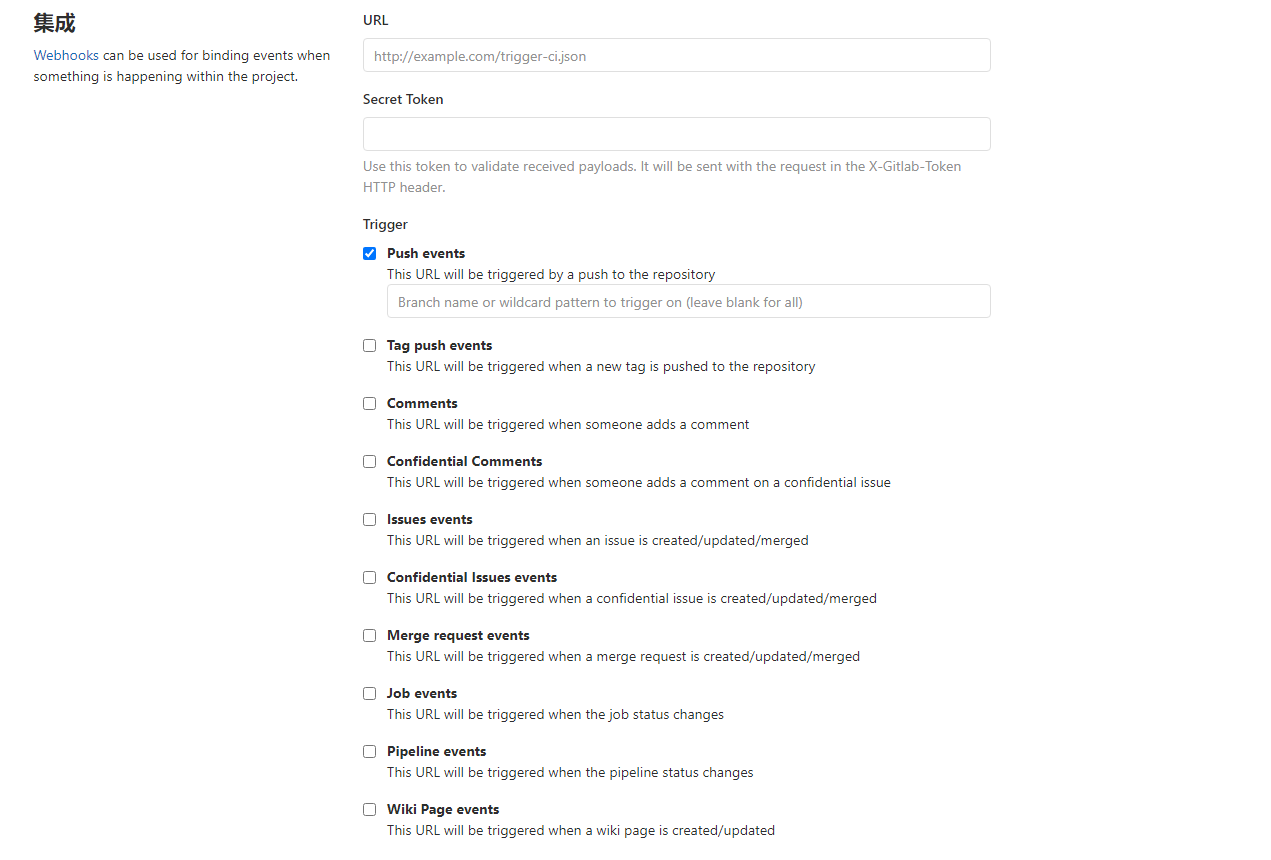
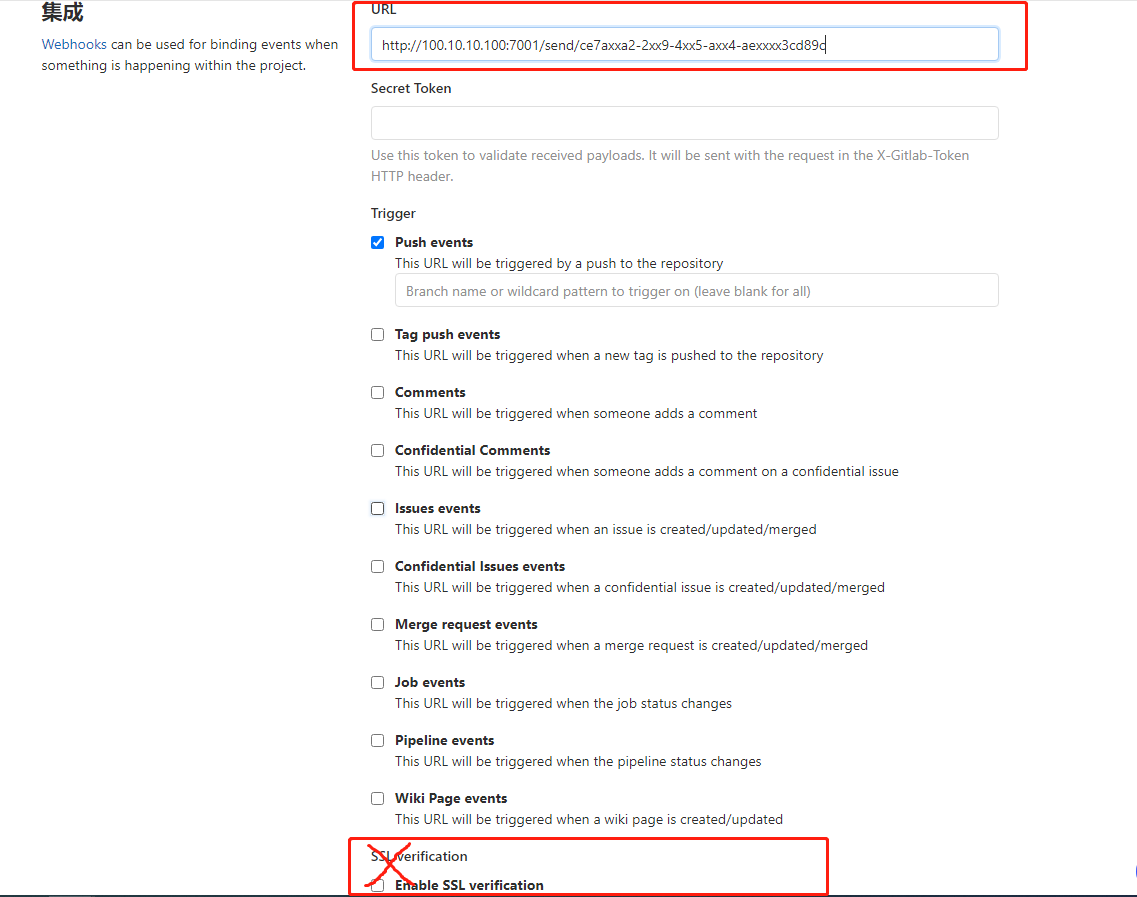
feat: 添加jira webhook推送

Changed region(s): [[0.0, 0.1512, 1.0, 1.0], [0.0308, 0.0, 0.9235, 0.1209]]

diff --git a/app/service/jiraSend.js b/app/service/jiraSend.js
@@ -1,0 +1,212 @@
+'use strict';
+
+const Service = require('egg').Service;
+const _ = require('lodash');
+
+class JiraSendService extends Service {
+  // jira不同操作的调用不同的信息处理方法
+  async translateMsg(data) {
+    const { webhookEvent, issue_event_type_name } = data || {};
+    if (webhookEvent) {
+      let res = '';
+      if (webhookEvent.startsWith('jira:issue')) {
+        if (issue_event_type_name === 'issue_commented') {
+          // issue添加评论事件
+          res = await this.issueComment(data);
+        } else if (issue_event_type_name === 'issue_comment_edited') {
+          // issue编辑评论事件
+          res = await this.issueEditComment(data);
+        } else if (issue_event_type_name === 'issue_comment_deleted') {
+          // issue删除评论事件
+          res = await this.issueDeleteComment(data);
+        } else {
+          // issue相关事件且不是评论事件
+          res = await this.issue(data);
+        }
+      } else if (webhookEvent.startsWith('jira:worklog')) {
+        // 工作日志更改和issue更新使用相同通知
+        data.webhookEvent = 'jira:issue_updated';
+        res = await this.issue(data);
+      } else if (webhookEvent.startsWith('jira:version')) {
+        // version相关事件
+        res = await this.version(data);
+      } else if (webhookEvent.startsWith('project')) {
+        // project相关事件
+        res = await this.project(data);
+      } else if (webhookEvent.startsWith('user')) {
+        // user相关事件
+        res = await this.user(data);
+      } else if (webhookEvent.startsWith('sprint')) {
+        // sprint相关事件
+        res = await this.sprint(data);
+      } else if (webhookEvent.startsWith('board')) {
+        // board相关事件
+        res = await this.board(data);
+      }
+      if (!res) return false;
+      return {
+        msgtype: 'markdown',
+        markdown: { content: res.join(' \n  ') },
+      };
+    }
+    return false;
+  }
+
+  // issue相关操作信息处理
+  async issue({ webhookEvent, user, issue }) {
+    const operationMap = {
+      created: 'create',
+      updated: 'update',
+      deleted: 'delete',
+    };
+    let operationDisplay = webhookEvent.replace(/jira:issue_/, '');
+    operationDisplay = operationMap[operationDisplay];
+    const { displayName } = user || {};
+    const {
+      self,
+      key,
+      fields: {
+        summary,
+        issuetype: { name: issuetypeName },
+        status: { name },
+        assignee: { displayName: assigneeDisplayName },
+        reporter: { displayName: reporterDisplayName },
+        project: { name: projectName },
+      },
+    } = issue || {};
+    const baseJiraUrl = (self || '').replace(/\/rest\/.*$/, '');
+    const displaySummary = operationDisplay === 'delete' ? `${key}/${summary}` : `[${key}/${summary}](${baseJiraUrl}/browse/${key})`;
+    const content = [];
+    content.push(`${displayName} ${operationDisplay} ${issuetypeName} ${displaySummary}`);
+    projectName && content.push(`> Project：${projectName}`);
+    name && content.push(`> Status：${name}`);
+    assigneeDisplayName && content.push(`> Assignee：${assigneeDisplayName}`);
+    reporterDisplayName && content.push(`> Reporter：${reporterDisplayName}`);
+    return content;
+  }
+
+  // issue添加评论操作信息处理
+  async issueComment({ user, issue, comment }) {
+    const { displayName } = user || {};
+    const {
+      self,
+      key,
+      fields: { summary },
+    } = issue || {};
+    const { body, id } = comment || {};
+    const baseJiraUrl = (self || '').replace(/\/rest\/.*$/, '');
+    const commentUrl = `${baseJiraUrl}/browse/${key}?focusedCommentId=${id}&page=com.atlassian.jira.plugin.system.issuetabpanels:comment-tabpanel#comment-${id}`;
+    const content = [];
+    content.push(`${displayName} [commented](${commentUrl}) on ${key}/${summary}`);
+    body && content.push(`> ${body}`);
+    return content;
+  }
+
+  // issue编辑评论操作信息处理
+  async issueEditComment({ user, issue, comment }) {
+    const { displayName } = user || {};
+    const {
+      self,
+      key,
+      fields: { summary },
+    } = issue || {};
+    const { body, id } = comment || {};
+    const baseJiraUrl = (self || '').replace(/\/rest\/.*$/, '');
+    const commentUrl = `${baseJiraUrl}/browse/${key}?focusedCommentId=${id}&page=com.atlassian.jira.plugin.system.issuetabpanels:comment-tabpanel#comment-${id}`;
+    const content = [];
+    content.push(`${displayName} edit [comment](${commentUrl}) on ${key}/${summary}`);
+    body && content.push(`> ${body}`);
+    return content;
+  }
+
+  // issue删除评论操作信息处理
+  async issueDeleteComment({ user, issue }) {
+    const { displayName } = user || {};
+    const {
+      self,
+      key,
+      fields: { summary },
+    } = issue || {};
+    const baseJiraUrl = (self || '').replace(/\/rest\/.*$/, '');
+    const issueUrl = `${baseJiraUrl}/browse/${key}`;
+    const content = [];
+    content.push(`${displayName} delete comment on [${key}/${summary}](${issueUrl})`);
+    return content;
+  }
+
+  // version相关操作信息处理
+  async version({ webhookEvent, version }) {
+    const { name, description, userReleaseDate } = version || {};
+    const operationDisplay = webhookEvent.replace(/jira:version_/, '');
+    const content = [];
+    content.push(`${name} version has been ${operationDisplay}`);
+    description && content.push(`> Description：${description}`);
+    userReleaseDate && content.push(`> ReleaseDate：${userReleaseDate}`);
+    return content;
+  }
+
+  // project相关操作信息处理
+  async project({ webhookEvent, project }) {
+    const operationDisplay = webhookEvent.replace(/project_/, '');
+    const { self, key, name, projectLead: { displayName } } = project || {};
+    const baseJiraUrl = (self || '').replace(/\/rest\/.*$/, '');
+    const projectUrl = `${baseJiraUrl}/projects/${key}/summary`;
+    const projectDisplay = operationDisplay === 'deleted' ? name : `[${name}](${projectUrl})`;
+    const content = [];
+    content.push(`${projectDisplay} project has been ${operationDisplay}`);
+    displayName && content.push(`> Leader：${displayName}`);
+    return content;
+  }
+
+  // user相关操作信息处理
+  async user({ webhookEvent, user }) {
+    const operationDisplay = webhookEvent.replace(/user_/, '');
+    const { name, displayName } = user || {};
+    const content = [];
+    content.push(`user ${displayName ? displayName : name} has been ${operationDisplay}`);
+    return content;
+  }
+
+  // sprint相关操作信息处理
+  async sprint({ webhookEvent, sprint }) {
+    const { self, name, state, originBoardId } = sprint || {};
+    const operationDisplay = webhookEvent.replace(/sprint_/, '');
+    const baseJiraUrl = (self || '').replace(/\/rest\/.*$/, '');
+    const sprintUrl = `${baseJiraUrl}/secure/RapidBoard.jspa?rapidView=${originBoardId}`;
+    const sprintDisplay = operationDisplay === 'deleted' ? name : `[${name}](${sprintUrl})`;
+    const content = [];
+    content.push(`${sprintDisplay} sprint has been ${operationDisplay}`);
+    state && content.push(`> Status：${state}`);
+    return content;
+  }
+
+  // board相关操作信息处理
+  async board(data) {
+    const { webhookEvent } = data;
+    const operationDisplay = webhookEvent.replace(/board_/, '');
+    let self = '';
+    let id = '';
+    let name = '';
+    if (operationDisplay === 'configuration_changed') {
+      self = _.get(data, 'configuration.self');
+      id = _.get(data, 'configuration.id');
+      name = _.get(data, 'configuration.name');
+    } else {
+      self = _.get(data, 'board.self');
+      id = _.get(data, 'board.id');
+      name = _.get(data, 'board.name');
+    }
+    const baseJiraUrl = (self || '').replace(/\/rest\/.*$/, '');
+    const boardUrl = `${baseJiraUrl}/secure/RapidBoard.jspa?rapidView=${id}&view=planning.nodetail`;
+    const boardDisplay = operationDisplay === 'deleted' ? name : `[${name}](${boardUrl})`;
+    const content = [];
+    if (operationDisplay === 'configuration_changed') {
+      content.push(`${boardDisplay} board configuration has been changed`);
+    } else {
+      content.push(`${boardDisplay} board has been ${operationDisplay}`);
+    }
+    return content;
+  }
+}
+
+module.exports = JiraSendService;

diff --git a/app/controller/jiraSend.js b/app/controller/jiraSend.js
@@ -1,0 +1,40 @@
+'use strict';
+
+const Controller = require('egg').Controller;
+
+class JiraSendController extends Controller {
+  async sendMessage() {
+    const { ctx } = this;
+    const groupKey = ctx.params.groupkey;
+    // 微信群的webhookUrl通过群组的webhook的key进行url的拼接
+    const webhookUrl = `https://qyapi.weixin.qq.com/cgi-bin/webhook/send?key=${groupKey}`;
+    const message = await ctx.service.jiraSend.translateMsg(ctx.request.body);
+    if (!message || !webhookUrl) {
+      ctx.body = { msg: 'message or webhookUrl is empty or not supported, suppressed.' };
+      return;
+    }
+
+    // 调用微信群的webhook API
+    const result = await ctx.curl(webhookUrl, {
+      method: 'POST',
+      headers: {
+        'content-type': 'application/json; charset=UTF-8',
+      },
+      // 自动解析 JSON response
+      dataType: 'json',
+      // 3 秒超时
+      timeout: 3000,
+      data: message,
+    });
+
+    ctx.body = {
+      webhook_url: webhookUrl,
+      webhook_message: message,
+      status: result.status,
+      headers: result.headers,
+      package: result.data,
+    };
+  }
+}
+
+module.exports = JiraSendController;

diff --git a/app/router.js b/app/router.js
@@ -3,6 +3,7 @@
 module.exports = app => {
   const { router, controller } = app;
   router.post('/send/:groupkey', controller.home.index);
+  router.post('/jira/send/:groupkey', controller.jiraSend.sendMessage);
   router.get('/job/list', controller.scheduleOperation.querySchedule);
   router.get('/job/add', controller.scheduleOperation.addSchedule);
   router.get('/job/update', controller.scheduleOperation.updateSchedule);

diff --git a/README.md b/README.md
@@ -1,69 +1,42 @@
 # 向企业微信群组推送消息
-## gitlab推送企业微信群组机器人
-> 支持gitlab所有触发动作
+> 通过配置Webhook的方式，将GitLab平台、Jira平台中操作产生的事件消息通知，自动推送至企业微信群组，并提供定时任务消息通知功能。
 
-### 推送显示示例如下
-#### 分支相关操作
-![分支相关操作](static/images/branch.png "分支相关操作")
+## 我们支持的功能
+1. GitLab相关操作推送企业微信群组
+2. Jira相关操作推送企业微信群组
+3. 配置定时任务消息推送企业微信群组
 
-#### tag相关操作
-![tag相关操作](static/images/tag.png "tag相关操作")
+## 创建企业微信群组机器人
+1. 使用管理员身份登录企业微信移动客户端
+2. 进入需要添加机器人的群组，进入群组设置，添加群组机器人
+3. 添加成功后，复制Webhook 地址
 
-#### 评论操作
-- 评论 commit
+## 配置GitLab项目Webhook
+> 以服务部署地址http://100.10.10.100:7001为例
 
-![评论 commit](static/images/comment-commit.png "评论 commit")
-- 评论 Merge Request
+1. 使用**Maintainer身份**进入GitLab需要添加自动推送的项目，进入设置 => 集成 。
+2. 配置Webhook，如企业微信群组机器人Webhook地址为 `https://qyapi.weixin.qq.com/cgi-bin/webhook/send?key=ce7axxa2-2xx9-4xx5-axx4-aexxxx3cd89c`，将问号后的key值与服务部署地址拼接为` http://100.10.10.100:7001/send/ce7axxa2-2xx9-4xx5-axx4-aexxxx3cd89c`，作为地址填入URL，如下图:
+![GitLab设置](static/images/gitlab.png "GitLab设置")
+3. 勾选需要进行消息推送的Trigger。**注意：取消勾选‘Enable SSL verification’**。点击**Add Webhook**按钮，完成配置。
 
-![评论 Merge Request](static/images/comment-mr.png "评论 Merge Request")
-- 评论 issue
+## 配置Jira的Webhook
+> 以服务部署地址http://100.10.10.100:7001为例
 
-![评论 issue](static/images/comment-issue.png "评论 issue")
+1. 使用**管理员身份**进入 管理 → 系统 → 网络钩子
+2. 配置Webhook，如企业微信群组机器人Webhook地址为 `https://qyapi.weixin.qq.com/cgi-bin/webhook/send?key=ce7axxa2-2xx9-4xx5-axx4-aexxxx3cd89c`，将问号后的key值与服务部署地址拼接为 `http://100.10.10.100:7001/jira/send/ce7axxa2-2xx9-4xx5-axx4-aexxxx3cd89c`，作为地址填入URL，**注意：不要在URL中使用额外变量**。
+![Jira设置](static/images/jira.png "Jira设置")
+3. 勾选需要进行消息推送的事件。支持 **问题相关事件的问题事件**、**项目相关事件**、**用户相关事件**、**Jira Software相关事件**。点击创建按钮，完成配置。
 
-#### issue相关操作
-![issue相关操作](static/images/issue.png "issue相关操作")
-
-#### Merge Request 相关操作
-![Merge Request 相关操作](static/images/mr.png "Merge Request 相关操作")
-
-#### Pipeline 相关操作
-![Pipeline 相关操作](static/images/pipeline.png "Pipeline 相关操作")
-#### wiki 相关操作
-![wiki 相关操作](static/images/wiki.png "wiki 相关操作")
-
-### 微信群组添加机器人
-> 参考[群机器人配置说明](https://work.weixin.qq.com/api/doc/90000/90136/91770)
-
-
-### gitlab设置webhooks
-1. 进入项目 设置 => 集成
-2. url填写自己服务部署的地址，以服务部署地址为 `http://100.10.10.100:7001` 为例
-```
-// 微信群组机器人的webhookUrl
-https://qyapi.weixin.qq.com/cgi-bin/webhook/send?key=ajs2w1o3102ndas9u121aw1u20
- 
-// gitlab集成设置的url，api调用路径最后使用微信群组的key即可
-http://100.10.10.100:7001/send/ajs2w1o3102ndas9u121aw1u20
-```
-3. 选择需要触发推送的操作保存设置即可
-![gitlab设置](static/images/gitlab.png "gitlab设置")
-
-
-## 定时向微信群组推送消息
+## 配置定时任务消息通知
 > 目前只支持文本类型，服务启动会默认开启所有设置为开启状态的定时任务。
 
-### 微信群组添加机器人
-> 参考[群机器人配置说明](https://work.weixin.qq.com/api/doc/90000/90136/91770) 使用所添加机器人的webhook_url作为定时任务配置的url
-
-### web页面配置定时任务
+### 可视化配置形式
 #### 查看所有定时任务情况以及开启状态  /job/view/list
 ![查看所有定时任务配置](static/images/list.png "查看所有定时任务配置")
 #### 添加定时任务  /job/view/add
 ![添加定时任务](static/images/operation.png "添加定时任务")
 
-### 接口形式调用
-> get 请求
-
+### API调用形式（Get请求）
 #### 查看所有定时任务情况  /job/list
 
 **返回值**
@@ -226,7 +199,12 @@ http://100.10.10.100:7001/send/ajs2w1o3102ndas9u121aw1u20
 | data | boolean | 是否重启成功 |
 
 
-## 使用docker部署项目
+## 项目部署
+**使用egg-scripts直接部署项目**
+1. npm install
+2. npm start
+
+**使用docker部署项目**
 > docker-compose up --build -d
 
 通过:7001端口访问服务即可
